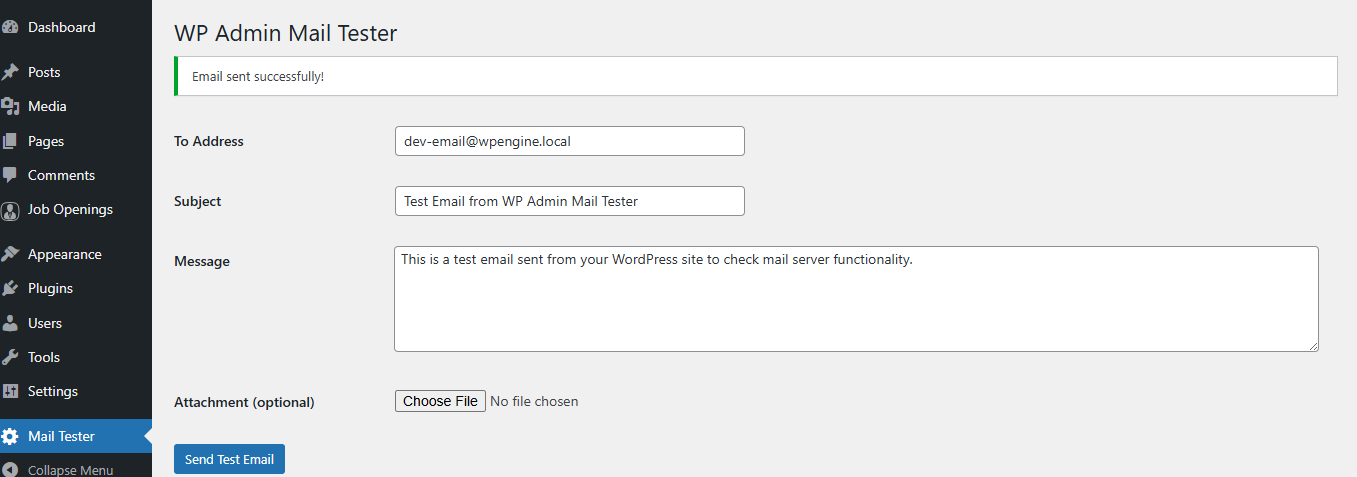
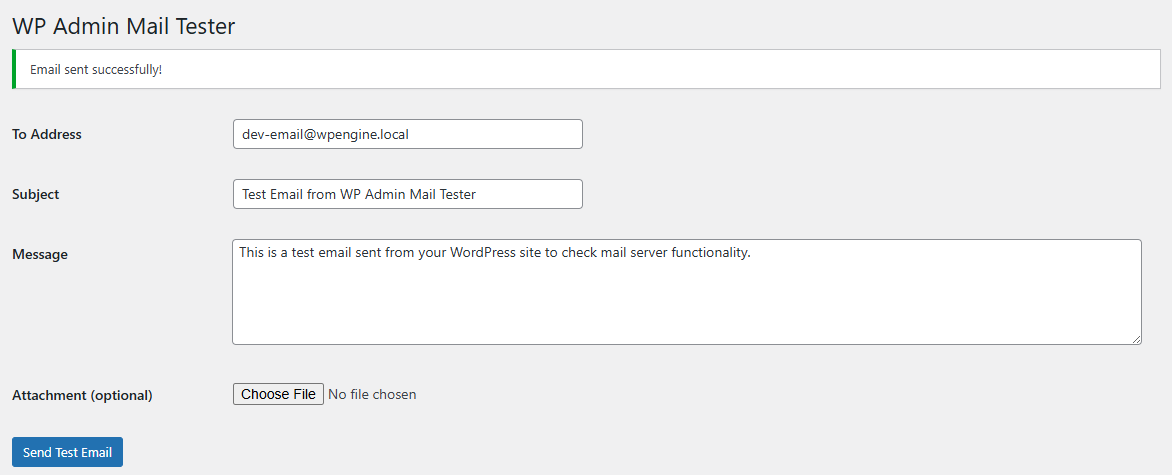
refactor: Move admin menu item to Tools submenu
Moved the "Mail Tester" admin page from a top-level menu item to a submenu under the "Tools" page to help de-clutter the admin sidebar.

- Replaced add_menu_page() with add_management_page().
- Updated the "Installation and Usage" and "FAQ" sections in the readme.txt to reflect the new location (Tools -> Mail Tester).

diff --git a/wp-admin-mail-tester.php b/wp-admin-mail-tester.php
@@ -20,7 +20,7 @@ if ( ! defined( 'ABSPATH' ) ) exit; // Exit if accessed directly.
  * Add a menu item in the admin dashboard.
  */
 add_action('admin_menu', function() {
-    add_menu_page(
+    add_management_page(
         __('Mail Tester', 'wp-admin-mail-tester'),
         __('Mail Tester', 'wp-admin-mail-tester'),
         'manage_options',
